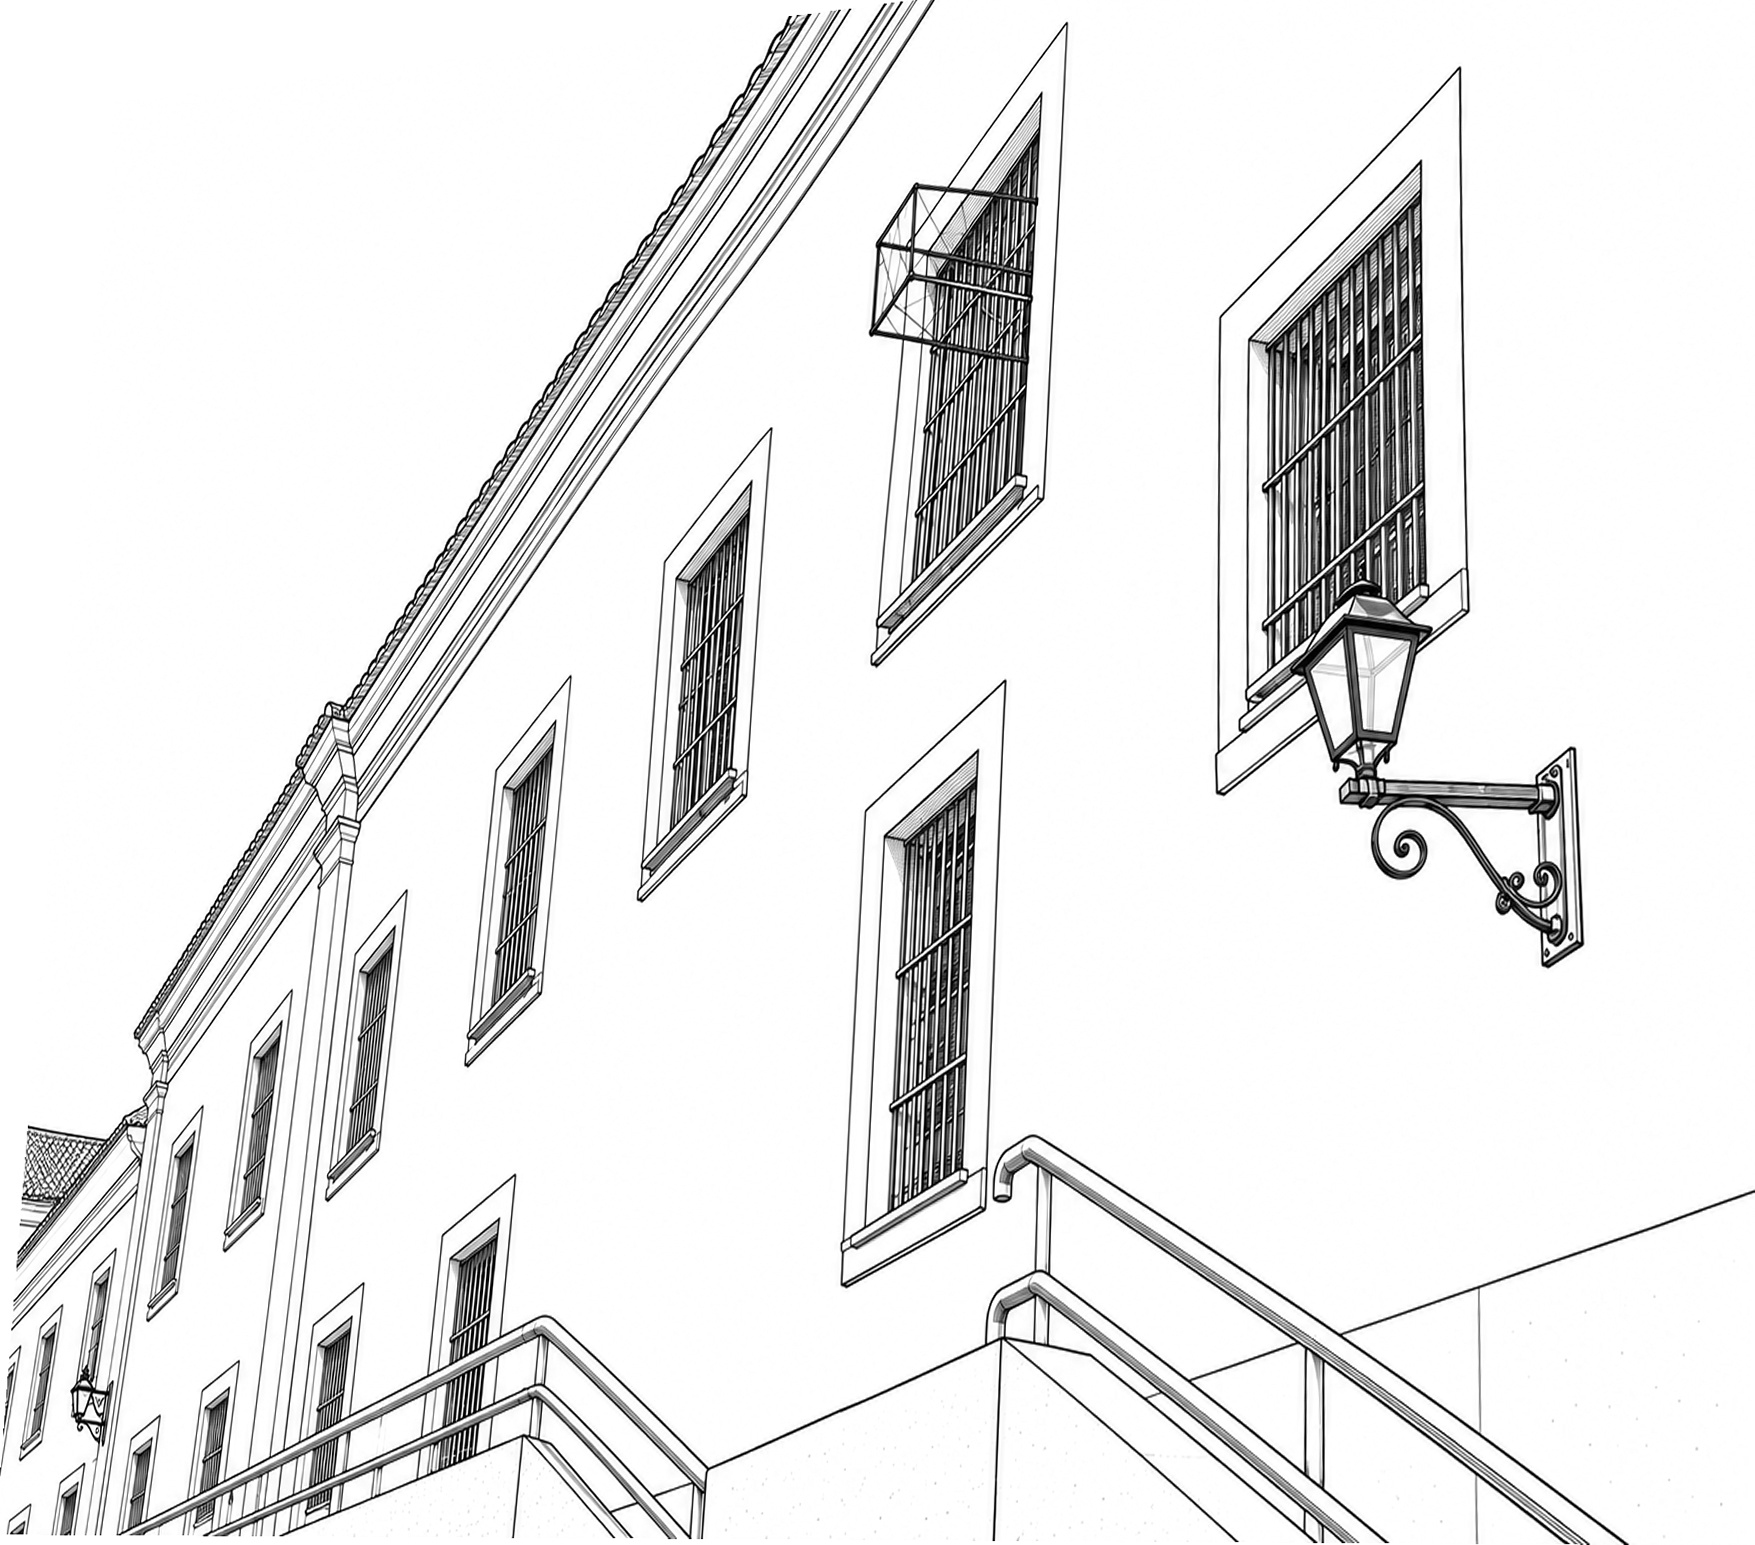
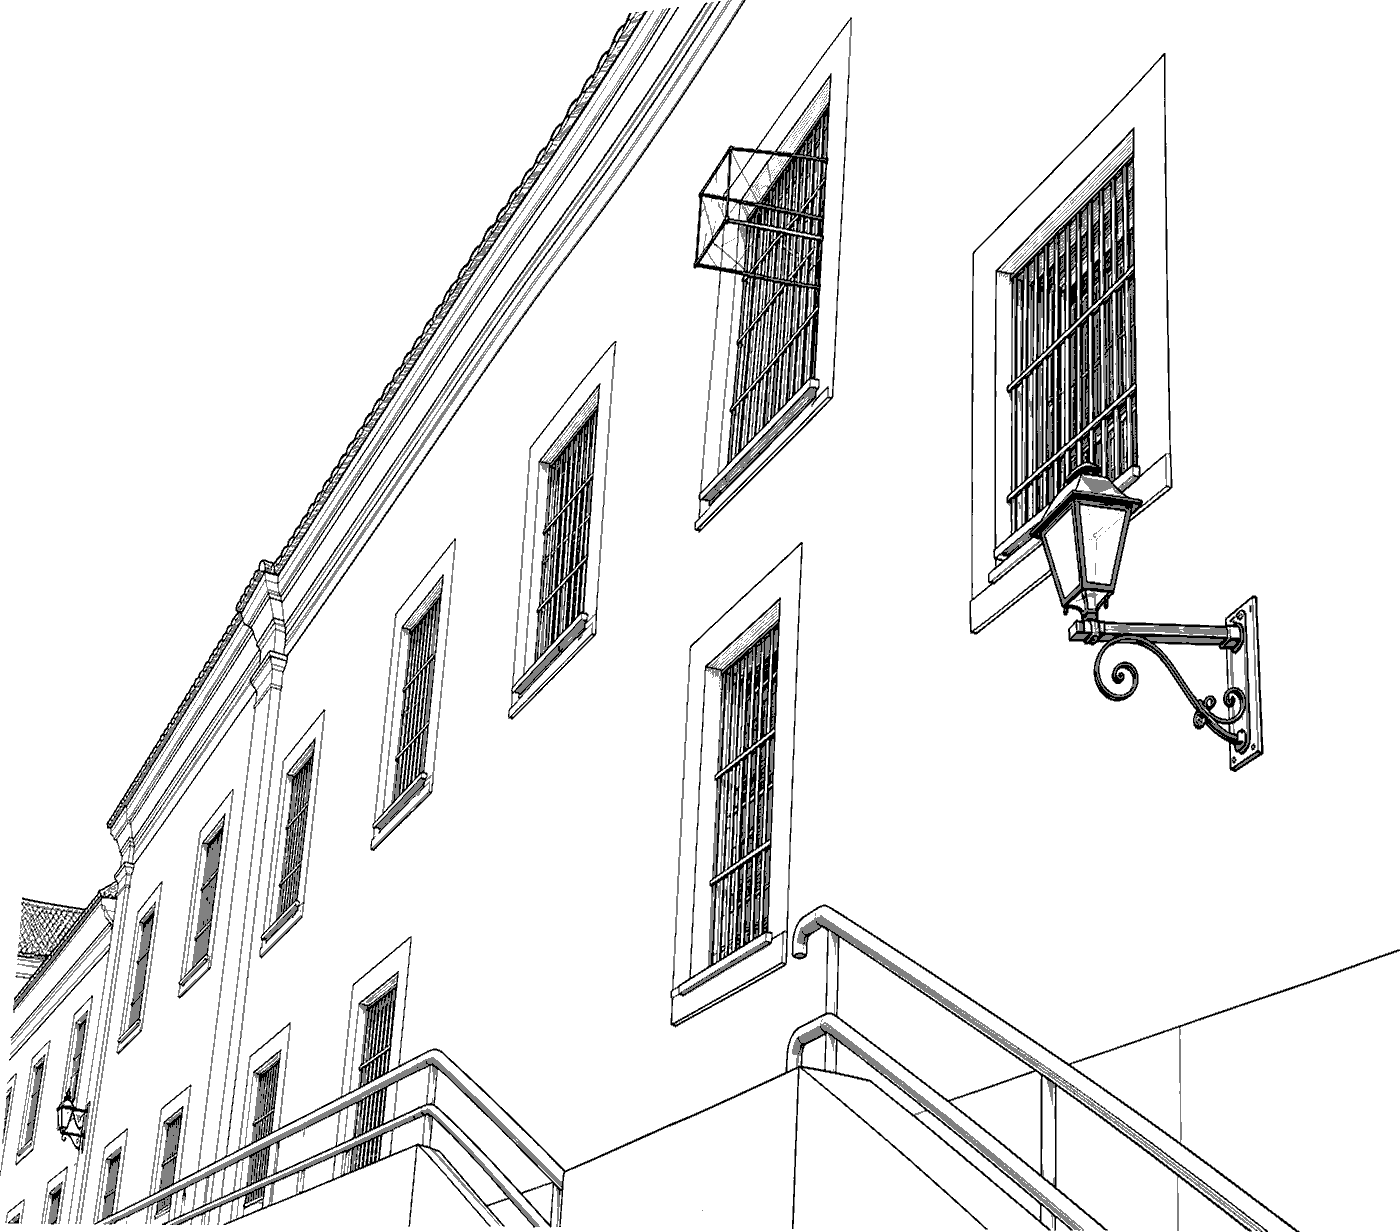
perf(home): derruba o LCP do hero de 5,4 s para 2,0 s
O traço do hero era o elemento de LCP e tinha 745,9 KB — dos quais 758.888
bytes estavam no canal alpha guardado sem perdas e só 4.906 na cor. Por isso
o -q do cwebp não mudava nada: quem manda no peso é o -alpha_q. Reencodado
com -alpha_q 5, sem perder resolução, e com variante de 800 px para o mobile,
onde o traço já cai para 40% de opacidade.

O preload da imagem também saía na 19ª posição do <head>, atrás de 16
<link rel="modulepreload"> de JS de hidratação — um <svelte:head> escreve
dentro do bloco do SvelteKit e nunca consegue subir. Agora sai de um
placeholder preenchido por rota no hook, na 2ª posição.

Os dois <link rel="preload"> espelham o media do <picture>: preload segue o
algoritmo de sizes e ignora o media do <source>, então sem isso o navegador
baixa um arquivo e usa outro.

  traço   745,9 KB -> 50,6 KB (desktop) / 23,1 KB (mobile)
  foto    105,0 KB -> 60,4 KB / 24,2 KB (mobile)
  LCP       5,4 s  -> 2,0 s

Claude-Session: https://claude.ai/code/session_01Sru3BXpXU86Dm8xq61PmNB

diff --git a/src/routes/[[lang=lang]]/+page.svelte b/src/routes/[[lang=lang]]/+page.svelte
@@ -23,27 +23,48 @@
 		</div>
 	</div>
 	<figure class="portrait">
-		<img
-			class="sketch"
-			src="/img/eduardo-torres-linhas.webp"
-			alt=""
-			aria-hidden="true"
-			width="1755"
-			height="1545"
-			loading="lazy"
-		/>
+		<!--
+			É o elemento de LCP da home: nada de lazy nem prioridade baixa.
+			O desenho vive quase todo no canal alpha, então quem manda no peso do
+			arquivo é o -alpha_q do cwebp, não o -q.
+
+			Direção de arte: no mobile o traço cai pra 40% de opacidade, onde a
+			hachura fina some — um arquivo menor ali é indistinguível e tira
+			13 KB do caminho crítico do LCP.
+		-->
+		<picture>
+			<source media="(max-width: 56rem)" srcset="/img/eduardo-torres-linhas-800.webp" />
+			<img
+				class="sketch"
+				src="/img/eduardo-torres-linhas.webp"
+				alt=""
+				aria-hidden="true"
+				width="1400"
+				height="1232"
+				fetchpriority="high"
+				decoding="async"
+			/>
+		</picture>
 		<img
 			src="/img/eduardo-torres.webp"
+			srcset="/img/eduardo-torres-560.webp 560w, /img/eduardo-torres.webp 920w"
+			sizes="(min-width: 56rem) 486px, min(100vw, 320px)"
 			alt={d.hero.photoAlt}
 			width="920"
 			height="1150"
-			fetchpriority="high"
+			decoding="async"
 		/>
 	</figure>
 </section>
 
 <section class="container section" aria-labelledby="cases-title">
-	<SectionHead id="cases" title={d.sections.cases.title} lead={d.sections.cases.lead} eyebrow="01" />
+	<SectionHead
+		id="cases"
+		titleId="cases-title"
+		title={d.sections.cases.title}
+		lead={d.sections.cases.lead}
+		eyebrow="01"
+	/>
 	<div class="cases">
 		{#each data.cases as entry, index (entry.slug)}
 			<CaseCard {entry} {locale} {index} />
@@ -56,7 +77,13 @@
 </section>
 
 <section class="container section" aria-labelledby="projetos-title">
-	<SectionHead id="projetos" title={d.sections.projects.title} lead={d.sections.projects.lead} eyebrow="02" />
+	<SectionHead
+		id="projetos"
+		titleId="projetos-title"
+		title={d.sections.projects.title}
+		lead={d.sections.projects.lead}
+		eyebrow="02"
+	/>
 	<ul class="projects" role="list">
 		{#each data.projects as entry (entry.slug)}
 			<ProjectItem {entry} {locale} />

diff --git a/src/hooks.server.ts b/src/hooks.server.ts
@@ -1,9 +1,21 @@
 import type { Handle } from '@sveltejs/kit';
-import { localeFromPath } from '$lib/i18n/routes';
+import { isHomePath, localeFromPath } from '$lib/i18n/routes';
+
+/*
+ * O traço do hero é o elemento de LCP da home. Preload dele tem que sair no
+ * topo do <head>, antes dos modulepreload do SvelteKit — por isso vive aqui e
+ * não num <svelte:head>, que só consegue escrever depois deles.
+ */
+const HERO_PRELOAD =
+	'<link rel="preload" as="image" fetchpriority="high" media="(max-width: 56rem)" ' +
+	'href="/img/eduardo-torres-linhas-800.webp">' +
+	'<link rel="preload" as="image" fetchpriority="high" media="(min-width: 56.01rem)" ' +
+	'href="/img/eduardo-torres-linhas.webp">';
 
 export const handle: Handle = async ({ event, resolve }) => {
 	const locale = localeFromPath(event.url.pathname);
+	const preload = isHomePath(event.url.pathname) ? HERO_PRELOAD : '';
 	return resolve(event, {
-		transformPageChunk: ({ html }) => html.replace('%lang%', locale)
+		transformPageChunk: ({ html }) => html.replace('%lang%', locale).replace('%head.preload%', preload)
 	});
 };

diff --git a/tests/i18n-routes.test.ts b/tests/i18n-routes.test.ts
@@ -2,6 +2,7 @@ import { describe, expect, it } from 'vitest';
 import {
 	href,
 	homeAnchor,
+	isHomePath,
 	localeFromPath,
 	publicToInternalPath,
 	switchLocalePath
@@ -51,5 +52,19 @@ describe('localeFromPath', () => {
 		expect(localeFromPath('/')).toBe('pt-BR');
 		expect(localeFromPath('/en/blog')).toBe('en');
 		expect(localeFromPath('/english')).toBe('pt-BR');
+	});
+});
+
+describe('isHomePath', () => {
+	it('reconhece a home dos dois idiomas', () => {
+		expect(isHomePath('/')).toBe(true);
+		expect(isHomePath('/en')).toBe(true);
+		expect(isHomePath('/en/')).toBe(true);
+	});
+
+	it('não confunde rota interna com a home', () => {
+		for (const path of ['/sobre', '/en/about', '/blog', '/cases', '/en/cases']) {
+			expect(isHomePath(path)).toBe(false);
+		}
 	});
 });

diff --git a/src/app.html b/src/app.html
@@ -12,7 +12,14 @@
 			type="font/woff2"
 			crossorigin
 		/>
-		%sveltekit.head%
+		<!--
+			Preenchido pelo hook, por rota. Precisa vir antes do bloco do SvelteKit:
+			lá dentro saem ~16 link rel=modulepreload, e um preload de imagem depois
+			deles entra na fila atrás de todo o JS de hidratação.
+			(Não cite o placeholder do head aqui: o SvelteKit substitui a primeira
+			ocorrência que encontrar, comentário incluído.)
+		-->
+		%head.preload% %sveltekit.head%
 	</head>
 	<body data-sveltekit-preload-data="hover">
 		<div style="display: contents">%sveltekit.body%</div>

diff --git a/src/routes/[[lang=lang]]/sobre/+page.svelte b/src/routes/[[lang=lang]]/sobre/+page.svelte
@@ -25,7 +25,15 @@
 			{/each}
 		</div>
 		<figure class="portrait">
-			<img src="/img/eduardo-torres.webp" alt={d.hero.photoAlt} width="920" height="1150" />
+			<img
+				src="/img/eduardo-torres.webp"
+				srcset="/img/eduardo-torres-560.webp 560w, /img/eduardo-torres.webp 920w"
+				sizes="(min-width: 48rem) 384px, min(100vw, 224px)"
+				alt={d.hero.photoAlt}
+				width="920"
+				height="1150"
+				fetchpriority="high"
+			/>
 		</figure>
 	</div>
 

diff --git a/src/lib/i18n/routes.ts b/src/lib/i18n/routes.ts
@@ -75,3 +75,9 @@ export function alternatePath(
 ): string {
 	return page.data.alternates?.[target] ?? switchLocalePath(page.url.pathname, target);
 }
+
+/** A home de cada idioma: `/` e `/en` (e as variantes com barra final). */
+export function isHomePath(pathname: string): boolean {
+	const internal = publicToInternalPath(pathname).replace(/\/+$/, '');
+	return internal === '' || internal === '/' + localePrefix.en;
+}
